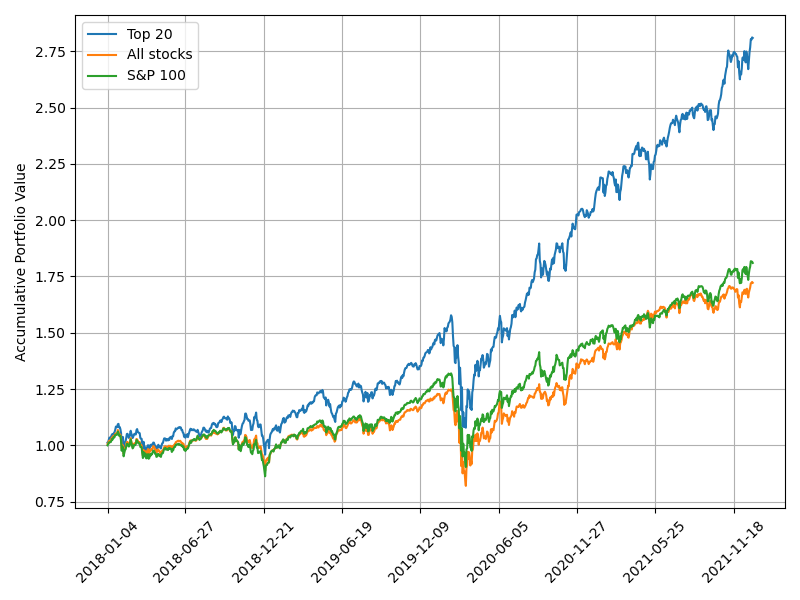
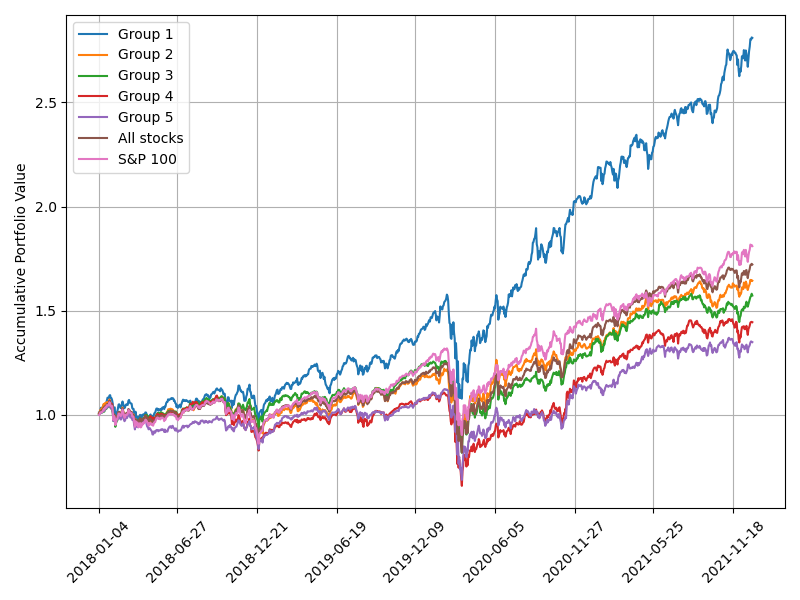
0427_3

diff --git a/final.py b/final.py
@@ -17,8 +17,10 @@ R = PPO_TCN_PATH
 R1 = 'save_/2022-04-24/120927'
 R0 = 'save_/2022-04-24/121248'
 # ew
-top10 = 'data/ew/ew10.pickle'
-top30 = 'data/ew/ew30.pickle'
+GROUP2 = 'data/ew/ew_g2.pickle'
+GROUP3 = 'data/ew/ew_g3.pickle'
+GROUP4 = 'data/ew/ew_g4.pickle'
+GROUP5 = 'data/ew/ew_g5.pickle'
 ALL = 'data/cb5_2_0410/ew_all.pickle'
 
 def load_values(path):
@@ -90,18 +92,20 @@ def load_ew(path):
 
 
 def ew():
-    _, _, ew, _, sp100, dates = load_values(TU_140)
-    #ew_10 = load_ew(top10)
-    #ew_30 = load_ew(top30)
-    ew_all = load_ew(ALL)
+    _, _, group1, _, sp100, dates = load_values(TU_140)
+    group2 = load_ew(GROUP2)
+    group3 = load_ew(GROUP3)
+    group4 = load_ew(GROUP4)
+    group5 = load_ew(GROUP5)
+    all_ = load_ew(ALL)
     plt.figure(figsize=(8, 6))
     ax = plt.subplot()
-    ax.plot(dates, ew, dates, ew_all, dates, sp100)
+    ax.plot(dates, group1, dates, group2, dates, group3, dates, group4, dates, group5, dates, all_, dates, sp100)
     #ax.plot(dates, ew_10, dates, ew_30)
-    legend = ['Top 20', 'All stocks', 'S&P 100']#, '10', '30']
+    legend = ['Group 1', 'Group 2', 'Group 3', 'Group 4', 'Group 5', 'All stocks', 'S&P 100']#, '10', '30']
     f = 'ew'
     fig_setting(ax, legend, f)
-    print(ew[-1], ew_all[-1], sp100[-1])
+    print(group1[-1], group2[-1], group3[-1], group4[-1], group5[-1], all_[-1], sp100[-1])
     
 
 def main():

diff --git a/mv.py b/mv.py
@@ -32,12 +32,14 @@ def mv_weights(year, Q):
 
 
 def test(args, year, Q, test_start_date):
-    target_stocks = get_targets(year=year, Q=Q, num=TARGET_NUM)
-    weights = mv_weights(year, Q)
-    weights = np.array(list(weights.values()))
-
+    target_stocks = get_targets(year=year, Q=Q, num=None)
+    #weights = mv_weights(year, Q)
+    #weights = np.array(list(weights.values()))
+    target_stocks = target_stocks[:20]
+    TARGET_NUM = len(target_stocks)
+    
     # for equal weight
-    #weights = np.ones(TARGET_NUM) / TARGET_NUM
+    weights = np.ones(TARGET_NUM) / TARGET_NUM
     # for equal weight
 
     weights = np.insert(weights, 0, 0)
@@ -67,7 +69,7 @@ def test(args, year, Q, test_start_date):
 
 
 def save(dates, returns):
-    with open('./' + data_repo + '/ew30.pickle', 'wb') as f:
+    with open('./' + data_repo + '/ew_g1.pickle', 'wb') as f:
         pickle.dump(returns, f)
     
 

diff --git a/run2.py b/run2.py
@@ -43,12 +43,12 @@ def main():
         policy_learn(args, agent, target_stocks, path, year, Q)  
     # test   
     else: 
-        year = 2019
+        year = 2018
         Q = 2
         target_stocks, action_dim = targets(year=year, Q=Q, num=20)
         
         agent = Agent(args, action_dim)
-        test_dir = './save_/2022-04-25/195539'
+        test_dir = './save_/2022-04-27/132019'
         if args.case == 3:
             test_dir += ('/' + str(year) + 'Q' + str(Q))
         policy_test(args, agent, target_stocks, test_dir, year, Q)

diff --git a/utils/yahoodownloader.py b/utils/yahoodownloader.py
@@ -142,8 +142,8 @@ class YahooDownloader:
     return target_history, dating'''
 
 def get_data_repo():
-    repo = 'data/cb5_2_0410'
-    #repo = 'data/ew'
+    #repo = 'data/cb5_2_0410'
+    repo = 'data/ew'
     return repo
 
 def get_data(target_stocks, year, Q, status, bench=False):
